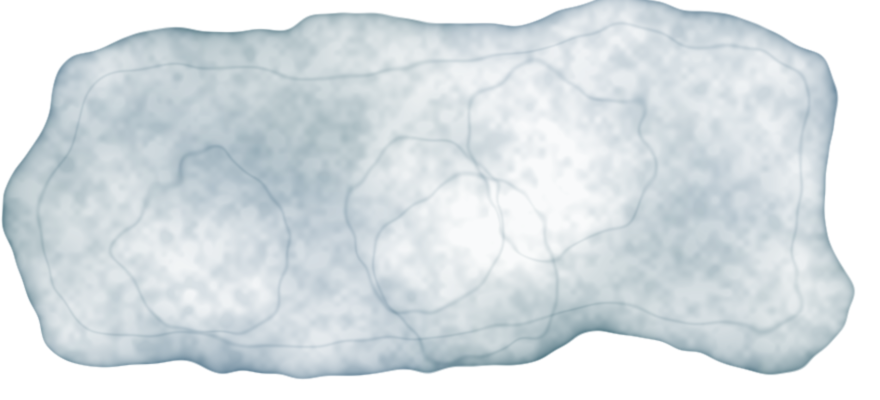
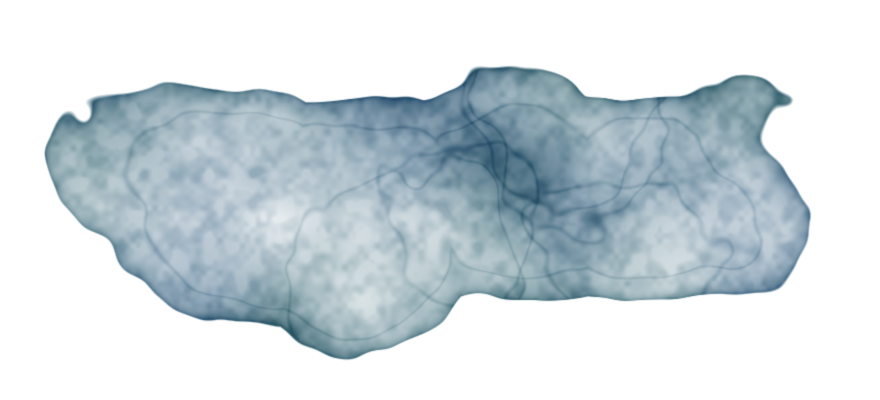
THISTLE: the map's wings as watercolour stains, its room names on arched cartouches
The wing zones are watercolour washes that register (CEDAR's): madder or
indigo pigment run together from a few pools, pooled dark at a wandering
edge, a tide line, back-runs, a second pigment not quite mixed, laid a
little past the wing's rectangle and turned by its seed; the key's hatch
stays in them as texture. The room-name tags are the Companion tiles'
arched nameplate (plate-arch.webp) with a shadow on the paper, sized so
the placement pass still finds clear paper for all of them at 1280.

diff --git a/game/src/scenes/map.js b/game/src/scenes/map.js
@@ -83,6 +83,12 @@ const CSS_READY = (() => {
 })();
 
 const ROMAN = ['','I','II','III','IV','V','VI','VII','VIII','IX','X','XI','XII','XIII','XIV','XV','XVI','XVII'];
+/** The wings' watercolour washes (tools/prep_ui_dressing.py): madder for a
+ *  wing that works against you, indigo for a boon. */
+const STAIN = {
+  bane: new URL('../../assets/ui/kit/stain-madder.webp', import.meta.url).href,
+  boon: new URL('../../assets/ui/kit/stain-indigo.webp', import.meta.url).href,
+};
 /** Pseudo-node standing for the doorway you came in through. */
 const ENTRY = '__in';
 /** The walked route as this screen draws it: the doorway, then the rooms. */
@@ -1023,23 +1029,28 @@ export class MapScene extends Scene {
       // a short leader from the roundel back to the nearest point on the boundary
       const ax = best.px + KEY / 2, ay = best.py + KEY / 2;
       const bx = clampN(ax, x, x + w), by = clampN(ay, y, y + h);
-      /* A soft painted wash, laid on with a brush (662d874's): a pale bloom of
-         pigment with a paler heart where it ran thin, pooled darker at its
-         deckled edge as it dried, a tide line just inside that, and the key's
-         hatch a breath of texture in it that follows the brush, never a box.
-         No dash and no ruled edge: a dashed rectangle read as a selection. */
+      /* Round 5: a WATERCOLOUR STAIN that registers (CEDAR's, round 4), not a
+         pale rounded rectangle. The wing's pigment laid into its footprint by
+         a loaded brush — pools run together, pooled dark where the water
+         dried against their wandering edge, a tide line, back-runs, a second
+         pigment that did not quite mix, the paper's tooth holding grains of it
+         (stain-madder / stain-indigo.webp, tools/prep_ui_dressing.py) — laid a
+         little past the wing's rectangle so its rooms sit in the colour, and
+         turned by the wing's own seed so no two wings wear the same stain. The
+         key's hatch (dots for a boon) stays in it as a breath of texture, so
+         the two kinds still differ by more than colour. */
       const deck = deckledRect(s, x, y, w, h, 40, 2.6);
-      // the pigment sits unevenly: a second, smaller pool of it off to one side
-      const px2 = x + w * (0.08 + ((s >>> 5) % 17) / 100), py2 = y + h * (0.1 + ((s >>> 11) % 13) / 100);
+      const sx = (s & 1) ? -1 : 1, sy = (s & 2) ? -1 : 1;
+      const ix = w * .07, iy = h * .12;
+      const cxz = x + w / 2, cyz = y + h / 2;
+      const stainUrl = STAIN[hz.kind === 'boon' ? 'boon' : 'bane'];
       parts.push(`<g class="mi-zone mi-zone--${hz.kind}" data-hz="${hz.id}">
-        <path class="mi-zone-wash" d="${deck}"/>
-        <path class="mi-zone-pool" d="${deckledRect(s ^ 0x51f, px2, py2, w * .58, h * .62, 36, 2)}"/>
-        <path class="mi-zone-bloom" d="${deckledRect(s ^ 0x3c1, x + 18, y + 16, w - 36, h - 32, 30, 1.6)}"/>
+        <image class="mi-zone-stain" href="${stainUrl}" preserveAspectRatio="none"
+               x="${(-w / 2 - ix).toFixed(1)}" y="${(-h / 2 - iy).toFixed(1)}"
+               width="${(w + 2 * ix).toFixed(1)}" height="${(h + 2 * iy).toFixed(1)}"
+               transform="translate(${cxz.toFixed(1)} ${cyz.toFixed(1)}) scale(${sx} ${sy})"/>
         <path class="mi-zone-hatch" d="${deck}"
               fill="url(#${hz.kind === 'boon' ? 'mm-dots' : 'mm-hatch'})"/>
-        <path class="mi-zone-tide" d="${deckledRect(s ^ 0x7a9, x + 7, y + 7, w - 14, h - 14, 34, 2.2)}"/>
-        <path class="mi-zone-edge" d="${deck}"/>
-        <path class="mi-zone-edge mi-zone-edge--pool" d="${deckledRect(s ^ 0x9d1, x + 1, y + 1, w - 2, h - 2, 40, 2.6)}"/>
         <g class="mi-zone-key">
           <path class="mi-zone-lead" d="M${ax.toFixed(1)} ${ay.toFixed(1)} L${bx.toFixed(1)} ${by.toFixed(1)}"/>
           <path class="mi-seal-melt" d="${sealMelt(s, ax, ay, KEY / 2 + 4)}"/>

diff --git a/game/src/scenes/map.css b/game/src/scenes/map.css
@@ -326,20 +326,10 @@
    rectangle laid over the drawing. */
 .mi-zone { color: #9b2f2a; transition: opacity var(--t-base); }
 .mi-zone--boon { color: #2f6680; }
-.mi-zone-wash { fill: currentColor; opacity: .13; }
-.mi-zone-pool { fill: currentColor; opacity: .06; }
-.mi-zone-bloom { fill: color-mix(in srgb, currentColor 50%, var(--parchment)); opacity: .09; }
-.mi-zone-hatch { opacity: .08; }
-.mi-zone-tide {
-  fill: none; stroke: currentColor; stroke-width: 2.4; stroke-linejoin: round;
-  opacity: .12;
-}
-.mi-zone-edge {
-  fill: none; stroke: currentColor; stroke-width: 5; stroke-linejoin: round;
-  opacity: .22;
-}
-/* the same edge pooled again a hair off: where the two meet the pigment is darker */
-.mi-zone-edge--pool { stroke-width: 3.2; opacity: .16; }
+/* round 5: the stain itself (map.js STAIN), multiplied into the paper the way
+   a glaze sinks into it, so the plan's ink and the paper's grain show through */
+.mi-zone-stain { opacity: 1; }
+.mi-zone-hatch { opacity: .1; }
 /* The wing's keyed symbol.  Same mark as the bar's note wears, so the plan and
    the margin legend read as one thing. */
 /* the key is a wax seal pressed onto the sheet: a ragged melted rim, the
@@ -486,17 +476,23 @@
      placement pass set it */
   transform: translateX(calc(-50% + var(--mn-dx, 0px))) scale(var(--lab-s, 1));
   transform-origin: 50% 0;
+  /* Round 5: a CARTOUCHE, not a pill that reads as a tooltip: the Companion
+     tiles' arched nameplate (plate-arch.webp), its ogee ends curling in gilt
+     and a low arch rising over the name, violet enamel filled to its rim and
+     screwed down on the plan with its own shadow on the paper. */
+  --tag-h: 33px;
   font-family: var(--font-body); font-size: 16.5px; font-weight: 600;
-  letter-spacing: .01em; white-space: nowrap; line-height: 1.15;
-  max-width: 320px;
+  letter-spacing: .015em; white-space: nowrap; line-height: 1.1;
+  max-width: 360px;
   color: var(--kit-name);
   background: none;
-  padding: 2px 17px 4px;
+  padding: calc(var(--tag-h) * .22) calc(var(--tag-h) * .72) calc(var(--tag-h) * .06);
   border: 0 solid transparent;
-  border-image: url("../../assets/ui/kit/cartouche-dark.webp") 18 34 18 34 fill / 8px 15px stretch;
+  border-image: url("../../assets/ui/kit/plate-arch.webp") 40 84 22 84 fill /
+    calc(var(--tag-h) * 40 / 132) calc(var(--tag-h) * 84 / 132) calc(var(--tag-h) * 22 / 132) calc(var(--tag-h) * 84 / 132) stretch;
   border-radius: 0;
   box-shadow: none;
-  filter: drop-shadow(0 2px 2px rgba(40, 24, 10, .55));
+  filter: drop-shadow(0 2px 1px rgba(30, 16, 6, .7)) drop-shadow(0 5px 6px rgba(40, 24, 10, .45));
   opacity: 0; pointer-events: none;
   transition: opacity var(--t-quick) var(--ease-out);
   text-shadow: 0 1px 0 rgba(0, 0, 0, .9);

diff --git a/tools/prep_ui_dressing.py b/tools/prep_ui_dressing.py
@@ -428,39 +428,50 @@ def fbm(shape, rng, octaves=5, base=4.0, persistence=.55):
 
 
 def stain(W, H, pigment, seed, second=None):
-    """A wash laid into a rectangle's footprint by a loaded brush: the edge wanders,
-    the pigment dries darker where it pooled against it, a tide line stands a
-    little inside, back-runs bloom where wetter water pushed the colour out, and
-    the paper's tooth holds grains of it. RGBA: the pigment's colour, its density
-    as alpha, so it lays over the parchment the way a glaze does."""
+    """A wash laid into a wing's footprint by a loaded brush, the way a surveyor
+    tints a zone: not a rectangle but three or four overlapping pools of the
+    same pigment run together, their joint edge wandering, the pigment drying
+    darkest where it pooled against that edge, a tide line a little inside it,
+    back-runs where wetter water pushed the colour out, a second pigment that
+    did not quite mix, and the paper's tooth holding grains of both. RGBA: the
+    pigment's colour, its density as alpha, so it lays over the parchment the
+    way a glaze does. Dense enough to register at a glance."""
     rng = np.random.default_rng(seed)
     yy, xx = np.mgrid[0:H, 0:W].astype(np.float32)
-    ix, iy = W * .045, H * .075
-    rx, ry = W / 2 - ix, H / 2 - iy
-    k = min(rx, ry) * .5
-    qx, qy = np.abs(xx - W / 2) - (rx - k), np.abs(yy - H / 2) - (ry - k)
-    sdf = np.hypot(np.maximum(qx, 0), np.maximum(qy, 0)) + np.minimum(np.maximum(qx, qy), 0) - k
-    d = sdf + fbm((H, W), rng, 4, 3.0) * min(W, H) * .04 + fbm((H, W), rng, 3, 10.0) * min(W, H) * .01
-    inside = np.clip(-d / 1.6, 0, 1)
-    din = np.clip(-d, 0, None)
     m = min(W, H)
-    body = .20 + .07 * fbm((H, W), rng, 5, 2.2)
-    pool = np.exp(-din / (m * .03)) * .30 + np.exp(-din / 2.2) * .28
-    tide = np.exp(-((din - m * (.09 + .015 * fbm((H, W), rng, 3, 4))) / 1.8) ** 2) * .10
-    gran = np.clip(fbm((H, W), rng, 2, 70.0), -1.2, 2.2) * .035
+    # the pools: soft superellipses along the footprint, overlapping
+    field = np.full((H, W), -1e9, np.float32)
+    n = 4
+    for i in range(n):
+        cx = W * (.24 + .52 * i / (n - 1)) + rng.uniform(-.03, .03) * W
+        cy = H * .5 + rng.uniform(-.06, .06) * H
+        rx = W * rng.uniform(.15, .19)
+        ry = H * rng.uniform(.3, .36)
+        e = 1 - (np.abs((xx - cx) / rx) ** 2.6 + np.abs((yy - cy) / ry) ** 2.6) ** (1 / 2.6)
+        field = np.maximum(field, e * min(rx, ry))
+    d = -field + fbm((H, W), rng, 4, 3.2) * m * .05 + fbm((H, W), rng, 3, 11.0) * m * .014
+    inside = np.clip(-d / 1.5, 0, 1)
+    inside *= np.clip(np.minimum(np.minimum(xx, W - 1 - xx), np.minimum(yy, H - 1 - yy)) / 10, 0, 1)
+    din = np.clip(-d, 0, None)
+    body = .44 + .10 * fbm((H, W), rng, 5, 2.4)
+    pool = np.exp(-din / (m * .035)) * .30 + np.exp(-din / 2.0) * .30
+    tide = np.exp(-((din - m * (.10 + .02 * fbm((H, W), rng, 3, 4))) / 1.7) ** 2) * .12
+    gran = np.clip(fbm((H, W), rng, 2, 80.0), -1.2, 2.4) * .05
     bloom = np.zeros((H, W), np.float32)
-    for _ in range(4):
-        bx, by = rng.uniform(.18, .82) * W, rng.uniform(.22, .78) * H
-        br = rng.uniform(.18, .32) * m
-        rr = np.hypot(xx - bx, yy - by) + fbm((H, W), rng, 3, 12) * br * .1
-        bloom -= np.clip(1 - rr / br, 0, 1) ** .8 * .10
-        bloom += np.exp(-((rr - br) / 2.4) ** 2) * .10
-    D = ndi.gaussian_filter(np.clip(body + pool + tide + gran + bloom, .03, .92) * inside, .6)
+    for _ in range(5):
+        bx, by = rng.uniform(.15, .85) * W, rng.uniform(.22, .78) * H
+        br = rng.uniform(.16, .3) * m
+        rr = np.hypot(xx - bx, yy - by) + fbm((H, W), rng, 3, 12) * br * .12
+        bloom -= np.clip(1 - rr / br, 0, 1) ** .8 * .09
+        bloom += np.exp(-((rr - br) / 2.2) ** 2) * .12
+    D = ndi.gaussian_filter(np.clip(body + pool + tide + gran + bloom, .05, .95) * inside, .6)
     C = np.broadcast_to(np.array(pigment, np.float32), (H, W, 3)).copy()
-    if second is not None:                       # two pigments that did not quite mix
-        mix = np.clip(.5 + .5 * fbm((H, W), rng, 3, 2.0), 0, 1)[..., None] * .55
+    if second is not None:
+        mix = np.clip(.5 + .6 * fbm((H, W), rng, 3, 2.0), 0, 1)[..., None] * .5
         C = C * (1 - mix) + np.array(second, np.float32) * mix
-    return np.dstack([C, np.clip(D, 0, 1) * 255]).astype(np.uint8)
+    # where the pigment is dense it is darker, as a glaze is
+    C *= (1 - .35 * np.clip(D - .5, 0, 1))[..., None]
+    return np.dstack([np.clip(C, 0, 255), np.clip(D, 0, 1) * 255]).astype(np.uint8)
 
 
 def main():
@@ -473,8 +484,8 @@ def main():
     save(socket_keep(), "socket-keep.webp")
     save(plate_carved(), "plate-carved.webp", trim=False)
     save(initial_vine(), "initial-vine.webp", trim=False)
-    save(stain(880, 400, (126, 36, 28), 11, second=(150, 78, 30)), "stain-madder.webp", trim=False, quality=86)
-    save(stain(880, 400, (30, 74, 104), 23, second=(46, 92, 96)), "stain-indigo.webp", trim=False, quality=86)
+    save(stain(880, 400, (138, 34, 26), 11, second=(160, 84, 34)), "stain-madder.webp", trim=False, quality=86)
+    save(stain(880, 400, (28, 76, 112), 23, second=(44, 100, 98)), "stain-indigo.webp", trim=False, quality=86)
 
 
 if __name__ == "__main__":
